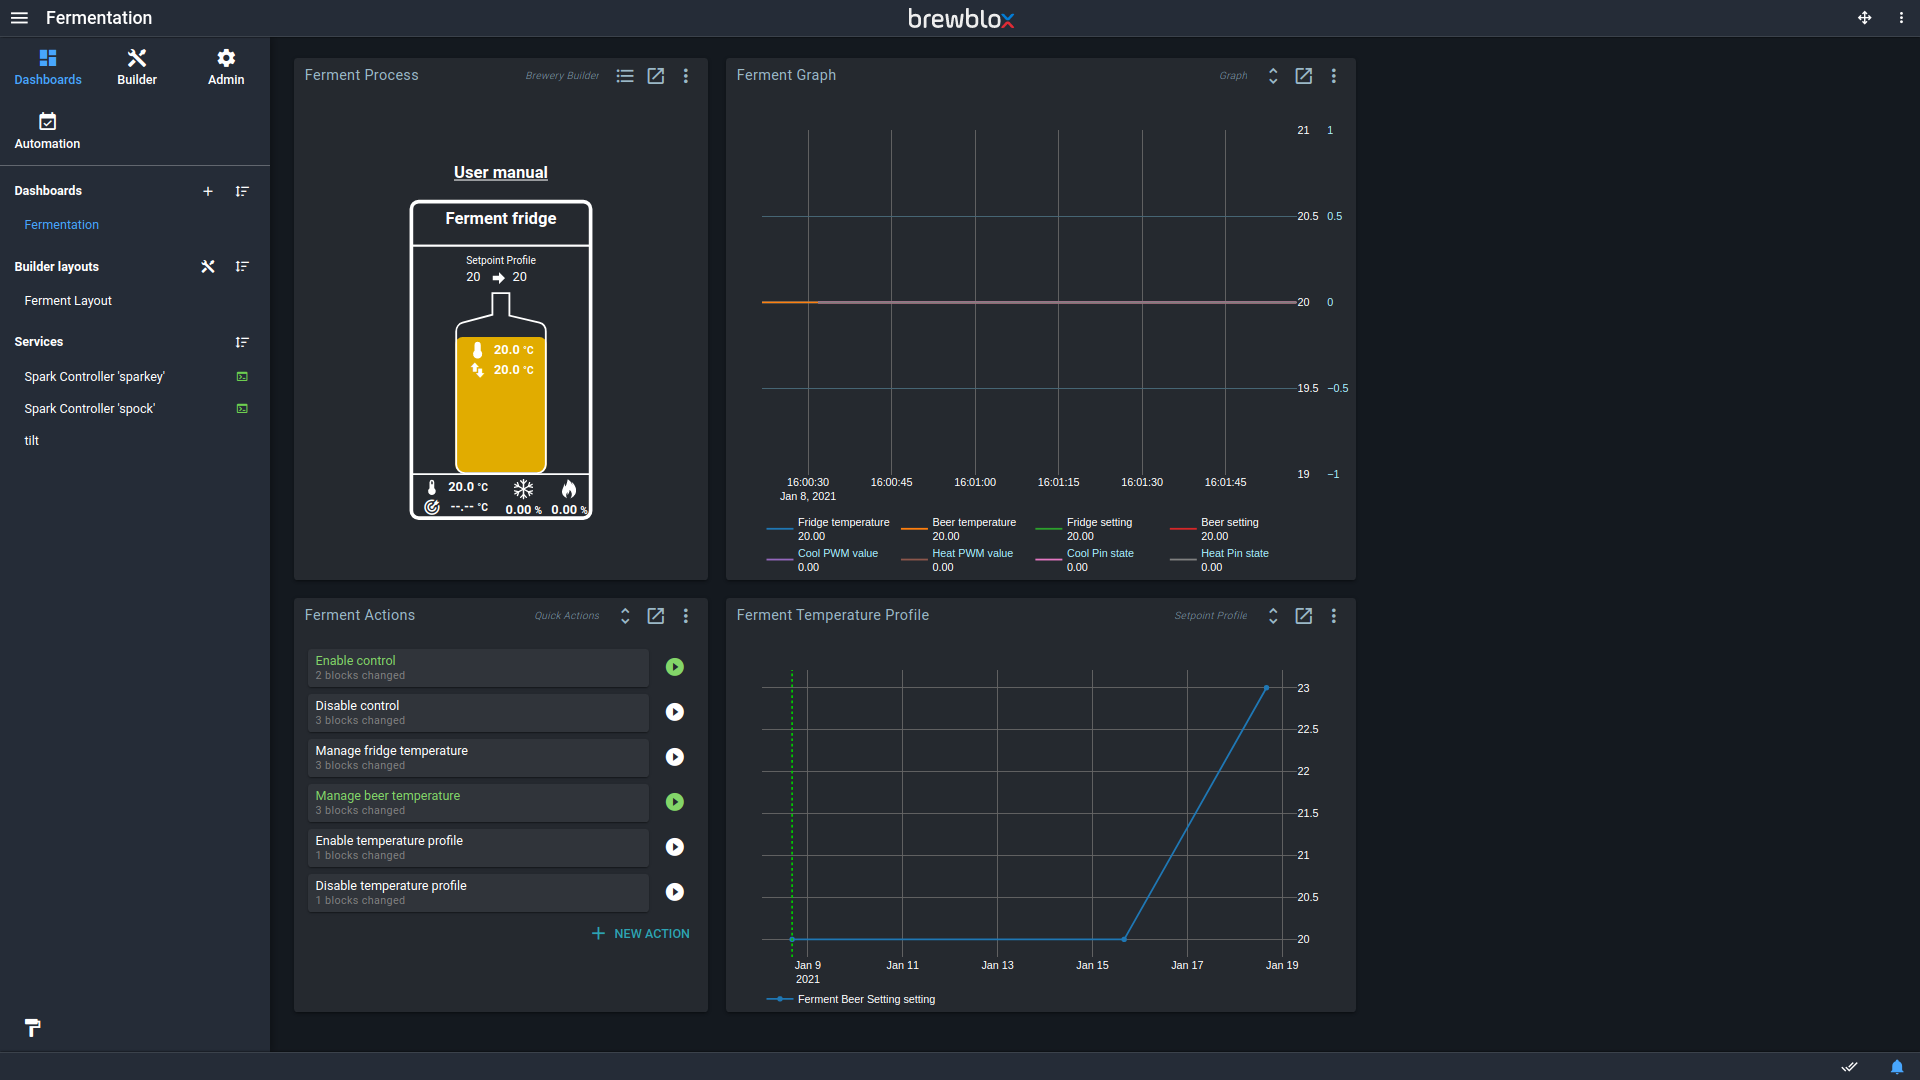
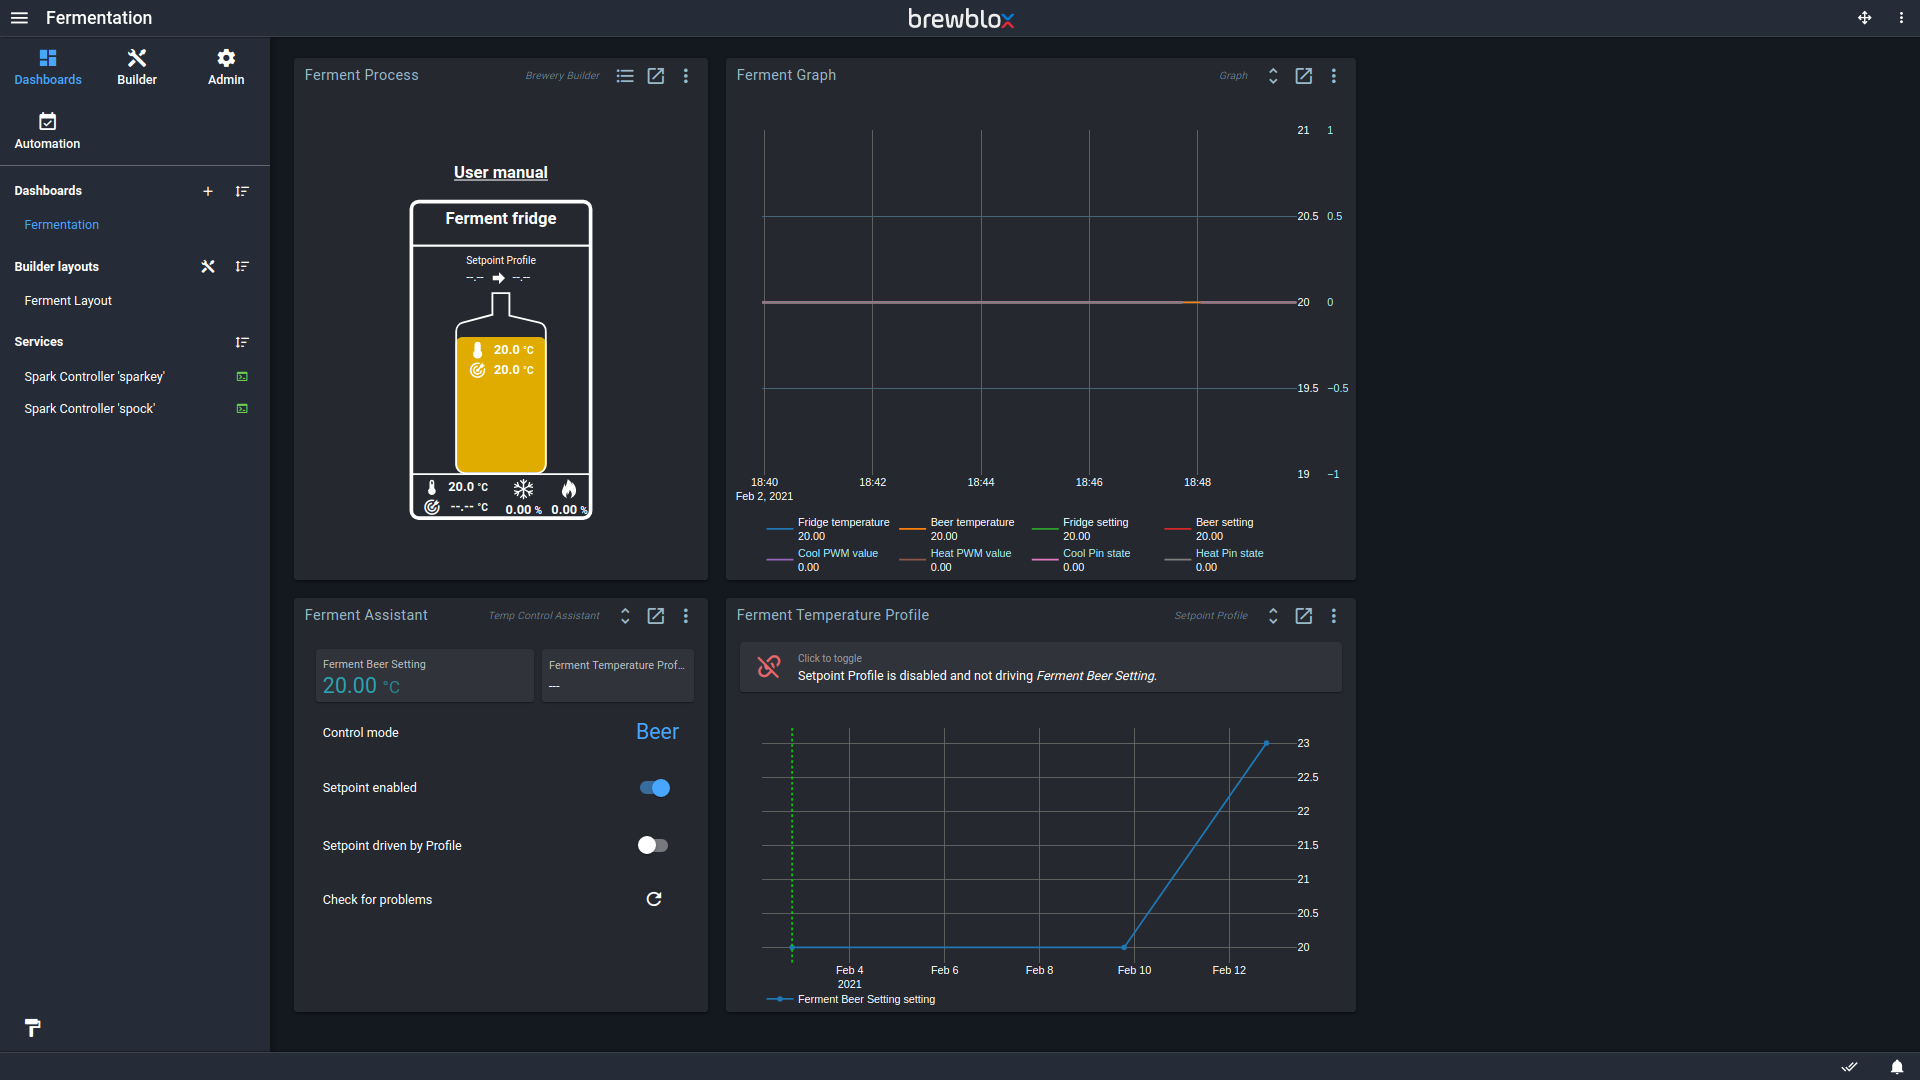
remove unused images; ferment assistant replaces quick actions

diff --git a/docs/user/ferment_guide.md b/docs/user/ferment_guide.md
@@ -1,4 +1,4 @@
-# Getting started: Fermentation fridge
+# Getting started: fermentation fridge
 
 While going through the [startup guide](./startup.md), you may have run the *Fermentation fridge* quick start wizard. This wizard asked you some questions, and then generated a dashboard and some widgets.
 
@@ -6,62 +6,28 @@ This guide walks you through the basics of using these widgets to monitor and co
 
 ![Ferment Fridge page](../images/fermentation-fridge-dashboard.png)
 
-## Quick actions
+## Ferment Assistant
 
-For high-level control of your setup, there is a *Quick Actions* widget on your dashboard.
+![Temp Control Assistant](../images/ferment-assistant.png)
 
-You can use this to start or stop fermentation control.
+The Temp Control Assistant widget groups the most common settings, and makes it easy to switch between fridge and beer modes.
 
-![Ferment Fridge actions](../images/fermentation-fridge-actions.png)
+**Control modes** keep track of the PID settings for Beer and Fridge modes.
+When changing modes, your system will adjust the PID settings, and start using the other temperature sensor.
 
-**Enable control** enables PID control of your heater and cooler.
-The contents of your fridge will now be heated or cooled to make measured value equal to the setpoint setting.
+The **Setpoint enabled** toggle indicates whether your system is active at all.
+If the Setpoint is disabled, your PIDs will be inactive, and your actuators will not cool or heat.
 
-**Disable control** disables PID control of your heater and cooler.
-They will not be turned on by the system.
-If they were on, they will be turned off.
+If the **Setpoint driven by Profile** toggle is enabled, your Setpoint and Setpoint profile are both enabled.
+More on temperature profiles below.
 
-**Manage fridge temperature** switches PID control to monitor your fridge temperature. Your PID settings will be adjusted.
-This does not automatically enable control.
+The **Check for problems** button verifies your block settings, and offers to fix any and all problems it found.
 
-**Manage beer temperature** switches PID control to monitor your beer temperature. Your PID settings will be adjusted.
-This does not automatically enable control.
+::: tip
+If you are still using a fermentation fridge setup with a Quick Actions widget, you can also manually add a Temp Control Assistant widget.
 
-**Enable profile** enables the *Setpoint Profile*. This block will automatically adjust your setpoint setting to follow the configured profile. (more on this below)
-
-**Disable profile** disables the *Setpoint Profile* block.
-You can now manually edit the setpoint setting again, and the setting will not change over time.
-
-## Quick actions: examples
-
-### Bring beer to a constant 20°C
-
-- Set the beer setpoint setting to 20°C
-- Use **Manage beer temperature**
-- Use **Enable control**
-
-![Enable static control](../images/enable-beer-control.gif)
-
-### Bring the fridge to a constant 20°C
-
-- Set the fridge setpoint setting to 20°C
-- Use **Manage fridge temperature**
-- Use **Enable control**
-
-![Enable fridge control](../images/enable-fridge-control.gif)
-
-### Start a temperature profile
-
-- Use **Enable profile**, and set start time to the desired value.
-
-![Enable temperature profile](../images/enable-profile-control.gif)
-
-### Turn off heating and cooling
-
-- Use **Disable profile**
-- Use **Disable control**
-
-![Disable control](../images/disable-control.gif)
+Link it to your blocks, and it will automatically show a button to store PID settings as mode.
+:::
 
 ## Temperature profiles
 
@@ -76,7 +42,7 @@ You can also create, load, and save profiles from the action menu.
 
 The profile is stored on the Spark itself. The Setpoint Profile continues to run if the Spark has no connection to the server (the Pi).
 
-When you use the **Start profile** quick action, you will be prompted to set the profile start time.
+The Ferment Assistant shows a **Setpoint driven by Profile** toggle that indicates the current state of the Setpoint Profile.
 
 ## Graphs
 
